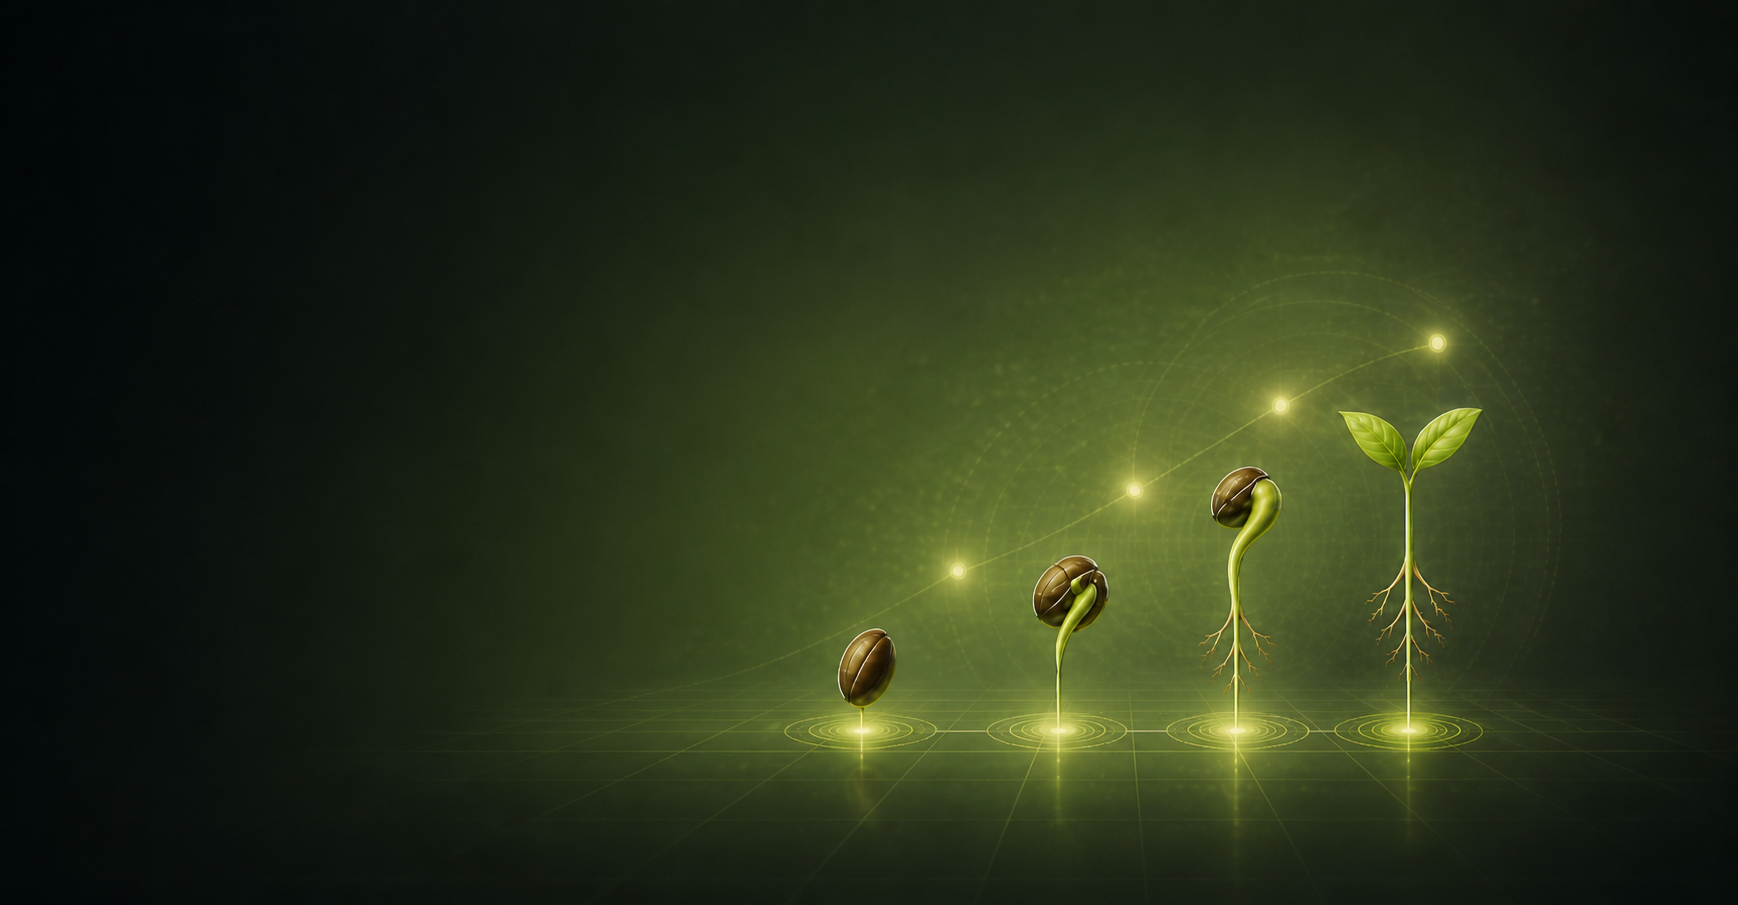
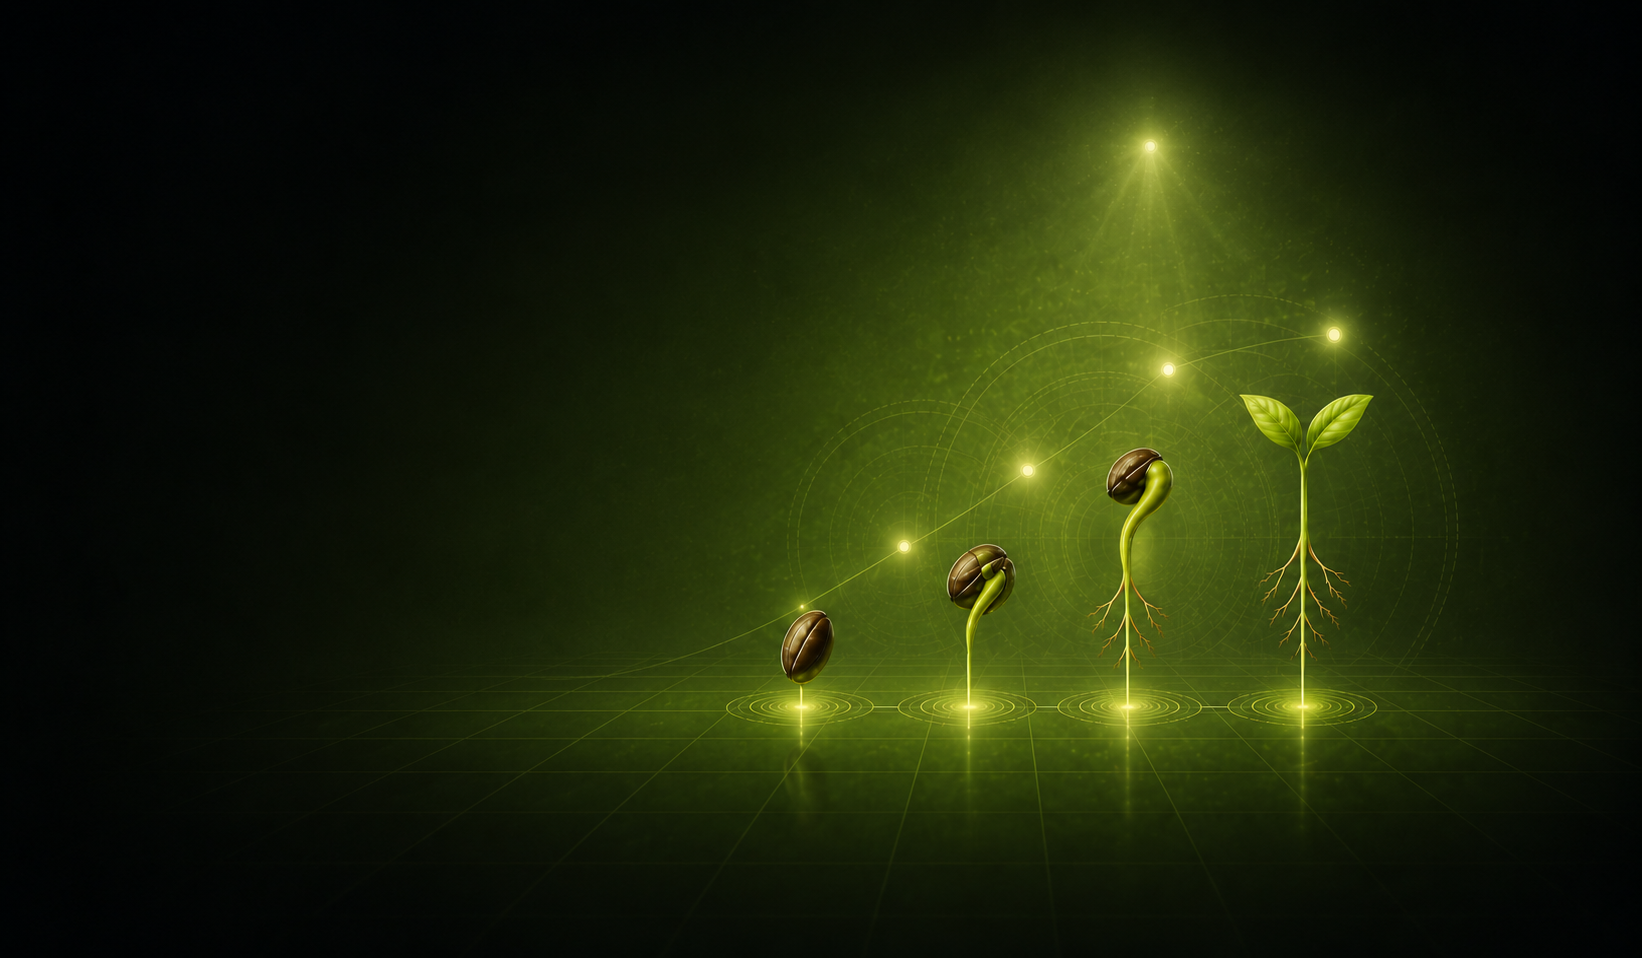
Add Active Sessions page from command center panels

Changed region(s): [[0.2795, 0.0619, 0.9318, 0.9901], [0.4659, 0.3713, 0.528, 0.4022], [0.8697, 0.2166, 0.9007, 0.2475]]

diff --git a/app.js b/app.js
@@ -4157,7 +4157,7 @@ function routeRequiresSignedInUser(hash = window.location.hash || "#home") {
   const normalizedHash = normalizeNavigationHash(hash);
   const [route, id, subroute] = normalizedHash.replace(/^#/, "").split("/");
 
-  if (route === "admin" || route === "community-grow-moderation" || route === "network" || route === "new" || route === "members" || route === "profile") {
+  if (route === "admin" || route === "community-grow-moderation" || route === "network" || route === "new" || route === "members" || route === "profile" || route === "active-sessions") {
     return true;
   }
 
@@ -17544,6 +17544,17 @@ function render() {
       pageKey: "profile",
       pageLabel: "Profile",
       pagePath: pathRoute === "profile" && isUsingPathRoute("profile") ? "/profile" : "#profile",
+    }));
+    return;
+  }
+
+  if (route === "active-sessions") {
+    renderActiveSessionsPage();
+    finalizeRender(buildSiteAnalyticsPageContext({
+      pageGroup: "sessions",
+      pageKey: "active-sessions",
+      pageLabel: "Active Sessions",
+      pagePath: "#active-sessions",
     }));
     return;
   }
@@ -34297,6 +34308,34 @@ function renderSessionsList() {
   renderHistorySessions();
 }
 
+function renderActiveSessionsPage() {
+  const sessions = sortSessionsNewestFirst(getSessions());
+  const visibleSessions = getVisibleUserSessions(sessions);
+  const activeSessions = sortActiveSessionsNewestFirst(
+    visibleSessions.filter((session) => normalizeSessionStatus(session.sessionStatus) !== "completed"),
+  );
+
+  app.innerHTML = `
+    <section class="active-sessions-page">
+      <section id="active-sessions-page-command-center" class="active-sessions-command-center"></section>
+    </section>
+  `;
+
+  const host = document.querySelector("#active-sessions-page-command-center");
+  mountSharedSessionCommandCenter(host, {
+    activeSessions,
+    sessions: visibleSessions,
+    aggregateSessions: sessions,
+    hasSessionHistory: visibleSessions.length > 0,
+    requiresSignIn: !appState.user,
+    compact: true,
+    showMetrics: false,
+    showViewAllLink: false,
+    headerEyebrow: "ACTIVE SESSIONS",
+    headerTitle: "ACTIVE SESSIONS",
+  });
+}
+
 function renderPublicSessionDetail(snapshotId) {
   const snapshot = getApprovedPublicGallerySnapshotById(snapshotId);
   const isLoadingSnapshot = Boolean(appState.galleryRefreshPromise) || (!isMockDataEnabled() && !appState.gallerySnapshots.length);
@@ -37850,17 +37889,22 @@ function renderMySessionsCommandCenterSectionMarkup(activeSessions = [], selecte
   const requiresSignIn = Boolean(options.requiresSignIn);
   const sessions = Array.isArray(options.sessions) ? options.sessions : [];
   const selectedSession = activeSessions.find((session) => session.id === selectedSessionId) || activeSessions[0] || null;
+  const headerEyebrow = String(options.headerEyebrow || "ACTIVE SESSION").trim() || "ACTIVE SESSION";
+  const headerTitle = String(options.headerTitle || "SESSION COMMAND CENTER").trim() || "SESSION COMMAND CENTER";
+  const viewAllHref = String(options.viewAllHref || "#sessions").trim() || "#sessions";
+  const showViewAllLink = options.showViewAllLink !== false;
+  const showMetrics = options.showMetrics !== false;
   const countBadgeLabel = requiresSignIn
     ? "Sign in"
     : `${activeSessions.length} ${activeSessions.length === 1 ? "in progress" : "in progress"}`;
 
   return `
-    <section id="session-command-center" class="session-command-center-shell session-command-center-shell--sessions card card-accent card-accent-green">
+    <section id="session-command-center" class="session-command-center-shell session-command-center-shell--sessions${options.compact ? " session-command-center-shell--compact" : ""} card card-accent card-accent-green">
       <header class="session-command-center-head session-command-center-header">
         ${renderCommandCenterIconMarkup("header", "command-icon--header")}
         <div class="session-command-center-header-text session-command-center-title-copy">
-            <p class="eyebrow">ACTIVE SESSION</p>
-            <h3 id="active-sessions-command-title">SESSION COMMAND CENTER</h3>
+            <p class="eyebrow">${escapeHtml(headerEyebrow)}</p>
+            <h3 id="active-sessions-command-title">${escapeHtml(headerTitle)}</h3>
             <div class="session-command-center-header-divider" aria-hidden="true"></div>
         </div>
       </header>
@@ -37873,7 +37917,7 @@ function renderMySessionsCommandCenterSectionMarkup(activeSessions = [], selecte
                 <span class="session-command-count-badge">${escapeHtml(countBadgeLabel)}</span>
               </div>
             </div>
-            <a class="session-command-panel-link" href="#sessions">View All Active <span aria-hidden="true">&rarr;</span></a>
+            ${showViewAllLink ? `<a class="session-command-panel-link" href="${escapeHtml(viewAllHref)}">View All Active <span aria-hidden="true">&rarr;</span></a>` : ""}
           </div>
           <div class="session-command-list">${renderMySessionsCommandCenterListMarkup(activeSessions, selectedSession?.id || "", options)}</div>
         </section>
@@ -37891,9 +37935,10 @@ function renderMySessionsCommandCenterSectionMarkup(activeSessions = [], selecte
           </div>
         </section>
       </div>
+      ${showMetrics ? `
       <div class="summary-grid session-command-center-metrics">
         ${renderMySessionsCommandCenterMetricsMarkup(sessions, activeSessions, { aggregateSessions: options.aggregateSessions || sessions })}
-      </div>
+      </div>` : ""}
     </section>
   `;
 }
@@ -37917,6 +37962,12 @@ function mountSharedSessionCommandCenter(host, options = {}) {
       requiresSignIn,
       sessions,
       aggregateSessions,
+      compact: options.compact,
+      showMetrics: options.showMetrics,
+      showViewAllLink: options.showViewAllLink,
+      viewAllHref: options.viewAllHref,
+      headerEyebrow: options.headerEyebrow,
+      headerTitle: options.headerTitle,
     });
     hydrateAppIconSlots(host);
     applySupplyStatusToSessionEntryButtons(host);

diff --git a/styles.css b/styles.css
@@ -2680,6 +2680,19 @@ body.theme-dark #active-sessions-section {
   margin-top: 28px;
 }
 
+.active-sessions-page {
+  display: grid;
+  gap: 0;
+}
+
+.active-sessions-command-center {
+  min-width: 0;
+}
+
+.session-command-center-shell--compact {
+  margin: 0;
+}
+
 .progress-chart-section {
   margin-top: var(--space-section);
   padding: var(--space-card);

diff --git a/index.html b/index.html
@@ -753,7 +753,7 @@
           <p class="app-hero-subtitle dashboard-subtitle">Track every active and completed grow in one place, compare progress, and start the next session when you're ready.</p>
           <div class="app-hero-actions hero-actions">
             <a class="button button-new-session hero-action-button hero-action-button--primary" href="#new" data-session-entry="true"><span class="hero-action-button-icon" aria-hidden="true">+</span><span>New Session</span></a>
-            <a class="button button-secondary hero-action-button hero-action-button--secondary" href="#sessions"><span>All Sessions</span></a>
+            <a class="button button-secondary hero-action-button hero-action-button--secondary" href="#active-sessions"><span>All Sessions</span></a>
           </div>
         </div>
       </div>